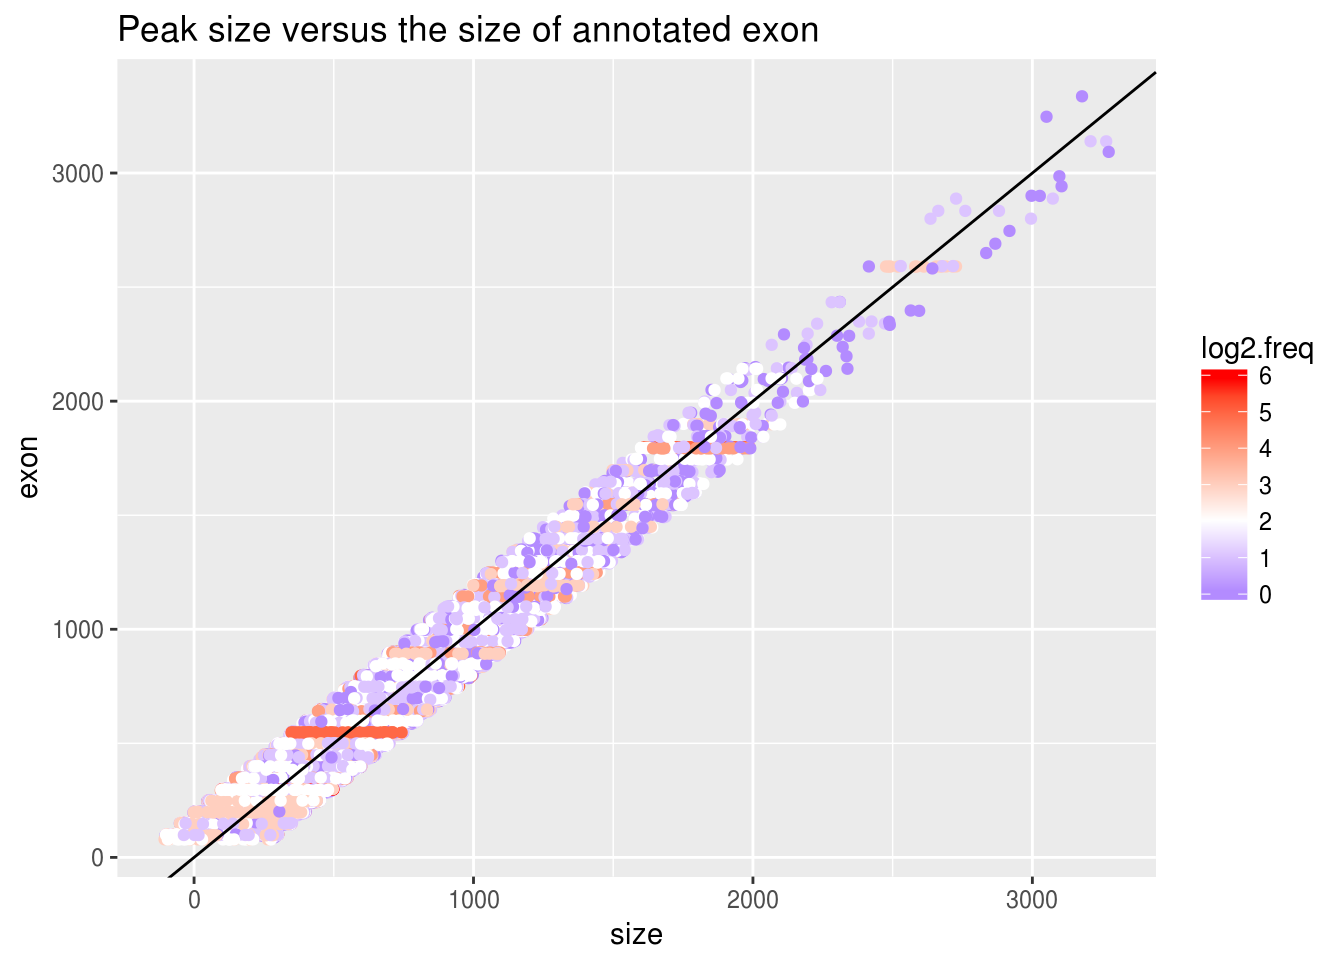
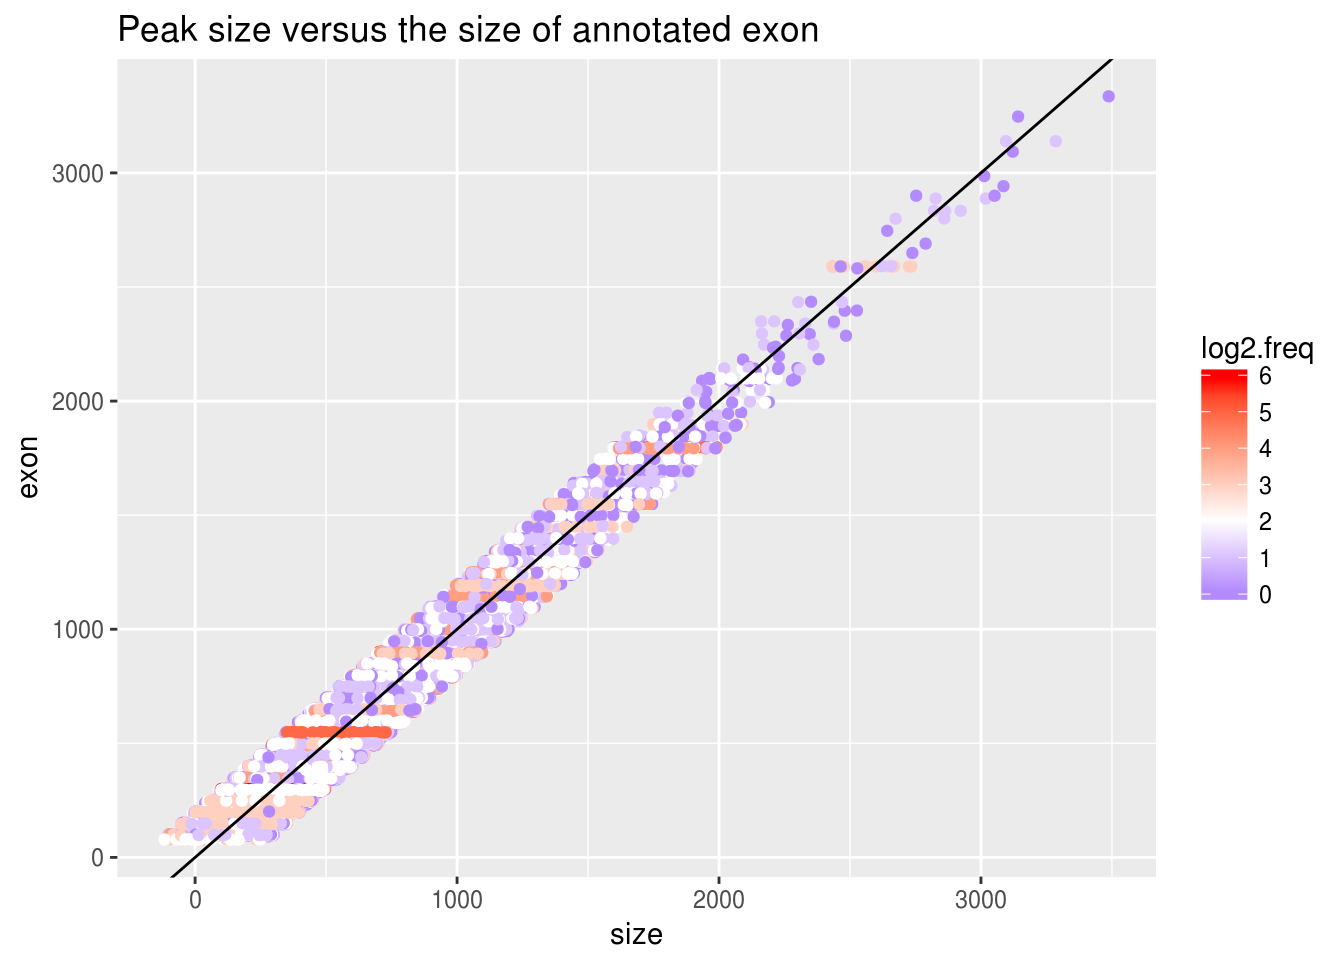
updated

diff --git a/docs/transcript_annotation.metApeakFisher_joint_peaks_18lcls.html b/docs/transcript_annotation.metApeakFisher_joint_peaks_18lcls.html
@@ -314,7 +314,8 @@ library(dplyr)</code></pre>
 <pre><code>## The following objects are masked from &#39;package:base&#39;:
 ## 
 ##     intersect, setdiff, setequal, union</code></pre>
-<pre class="r"><code>source(&#39;../code/utilities/transcript_annotation_rlib.R&#39;)</code></pre>
+<pre class="r"><code>library(pander)
+source(&#39;../code/utilities/transcript_annotation_rlib.R&#39;)</code></pre>
 </div>
 <div id="load-data" class="section level1">
 <h1><span class="header-section-number">2</span> Load Data</h1>
@@ -870,7 +871,7 @@ ggplot(mydat.pcg.dist) +
 <pre class="r"><code>mydat.valid.stratify &lt;- mydat.valid %&gt;%
   mutate(type = stratifyMatch(fiveUTR, threeUTR, CDS, exon))
 mydat.valid.stratify.bypeak &lt;- mydat.valid.stratify %&gt;%
-  group_by(peak.id) %&gt;%
+  group_by(peak.id, exon) %&gt;%
   summarise(peak.type = stratifyPeak(type)) %&gt;%
   ungroup()
 ggplot(mydat.valid.stratify.bypeak) +
@@ -878,6 +879,40 @@ ggplot(mydat.valid.stratify.bypeak) +
   theme(axis.text.x = element_text(angle = 45, hjust = 1)) +
   ggtitle(&#39;Number of peak per annotation category&#39;)</code></pre>
 <p><img src="transcript_annotation.metApeakFisher_joint_peaks_18lcls_files/figure-html/unnamed-chunk-9-1.png" width="672" /></p>
+</div>
+<div id="size-of-peak" class="section level1">
+<h1><span class="header-section-number">10</span> Size of peak</h1>
+<pre class="r"><code>pander(summary(mydat.valid.stratify.bypeak$exon))</code></pre>
+<table>
+<colgroup>
+<col width="9%" />
+<col width="13%" />
+<col width="12%" />
+<col width="9%" />
+<col width="13%" />
+<col width="8%" />
+</colgroup>
+<thead>
+<tr class="header">
+<th align="center">Min.</th>
+<th align="center">1st Qu.</th>
+<th align="center">Median</th>
+<th align="center">Mean</th>
+<th align="center">3rd Qu.</th>
+<th align="center">Max.</th>
+</tr>
+</thead>
+<tbody>
+<tr class="odd">
+<td align="center">79</td>
+<td align="center">197</td>
+<td align="center">300</td>
+<td align="center">402.2</td>
+<td align="center">500</td>
+<td align="center">3336</td>
+</tr>
+</tbody>
+</table>
 </div>
 
 
